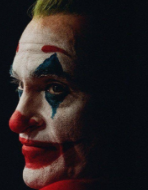
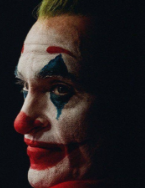
fix color

diff --git a/src/components/home/banner/index.js b/src/components/home/banner/index.js
@@ -1,6 +1,6 @@
 import React from 'react';
 import { StyledContainer } from './style';
-import jokerimg from "../../../assets/images/jokker.png"
+import jokerimg from "../../../assets/images/joker.png"
 
 function BannerComponent(props) {
     return (

diff --git a/src/App.css b/src/App.css
@@ -1,7 +1,7 @@
 
 :root{
   --white:#f1f1f1;
-  --black:#040406;
+  --black:#0a0d12;
   --dark:#13161e;
   --gray:#3a3d42;
   --dark-brown:#512914;

diff --git a/src/components/home/recent-movies/movies-carousel/style.js b/src/components/home/recent-movies/movies-carousel/style.js
@@ -5,7 +5,7 @@ margin-top:2rem;
 .swiper {
   width: 100%;
   height: 100%;
-  padding-left:0.7rem;
+  padding-left:0.3rem;
 }
 
 .swiper-slide {
